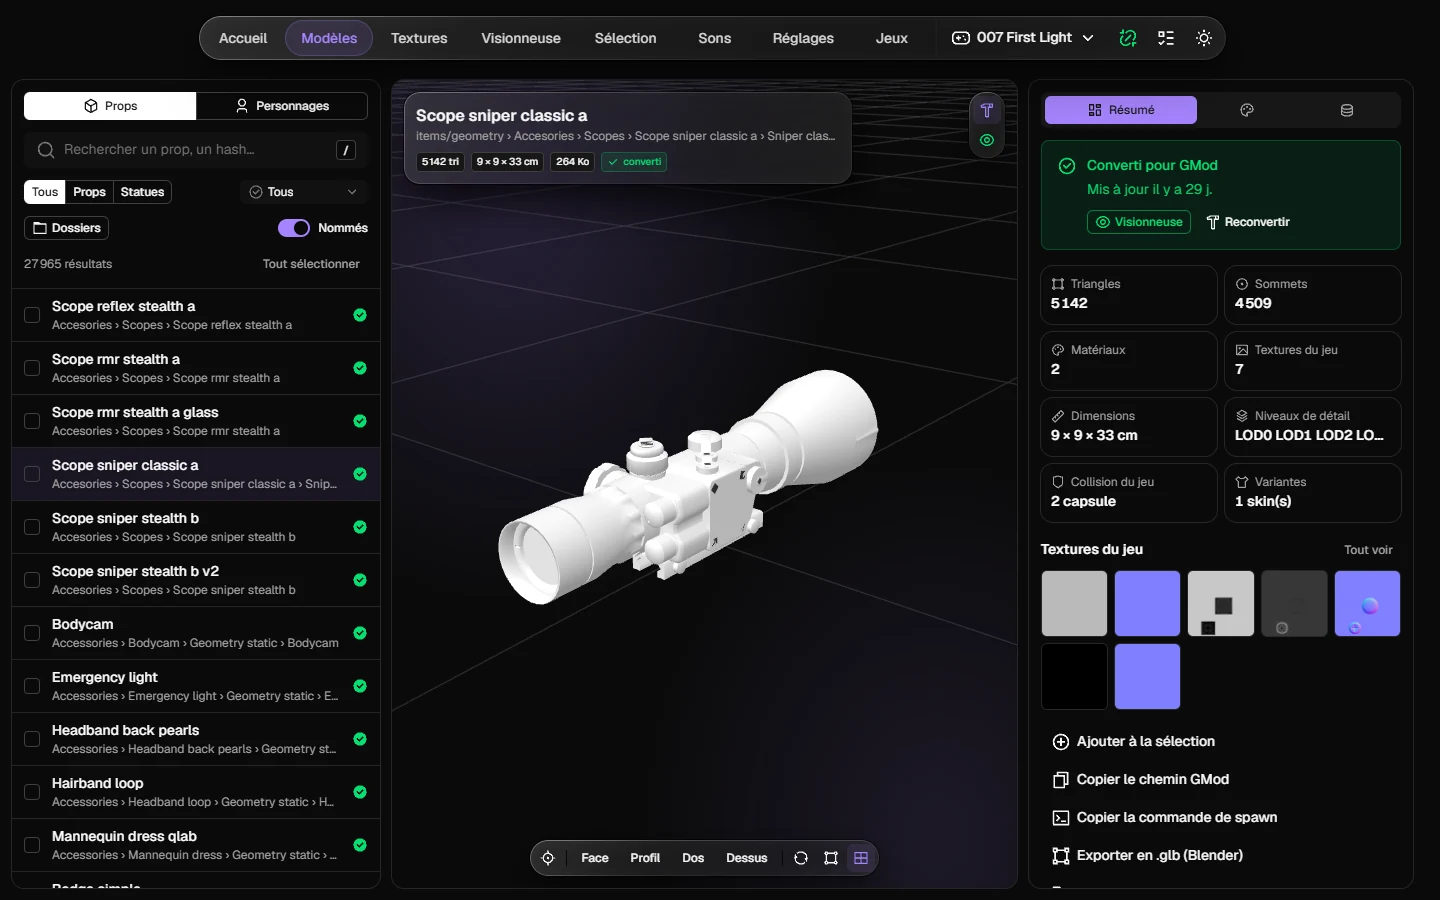
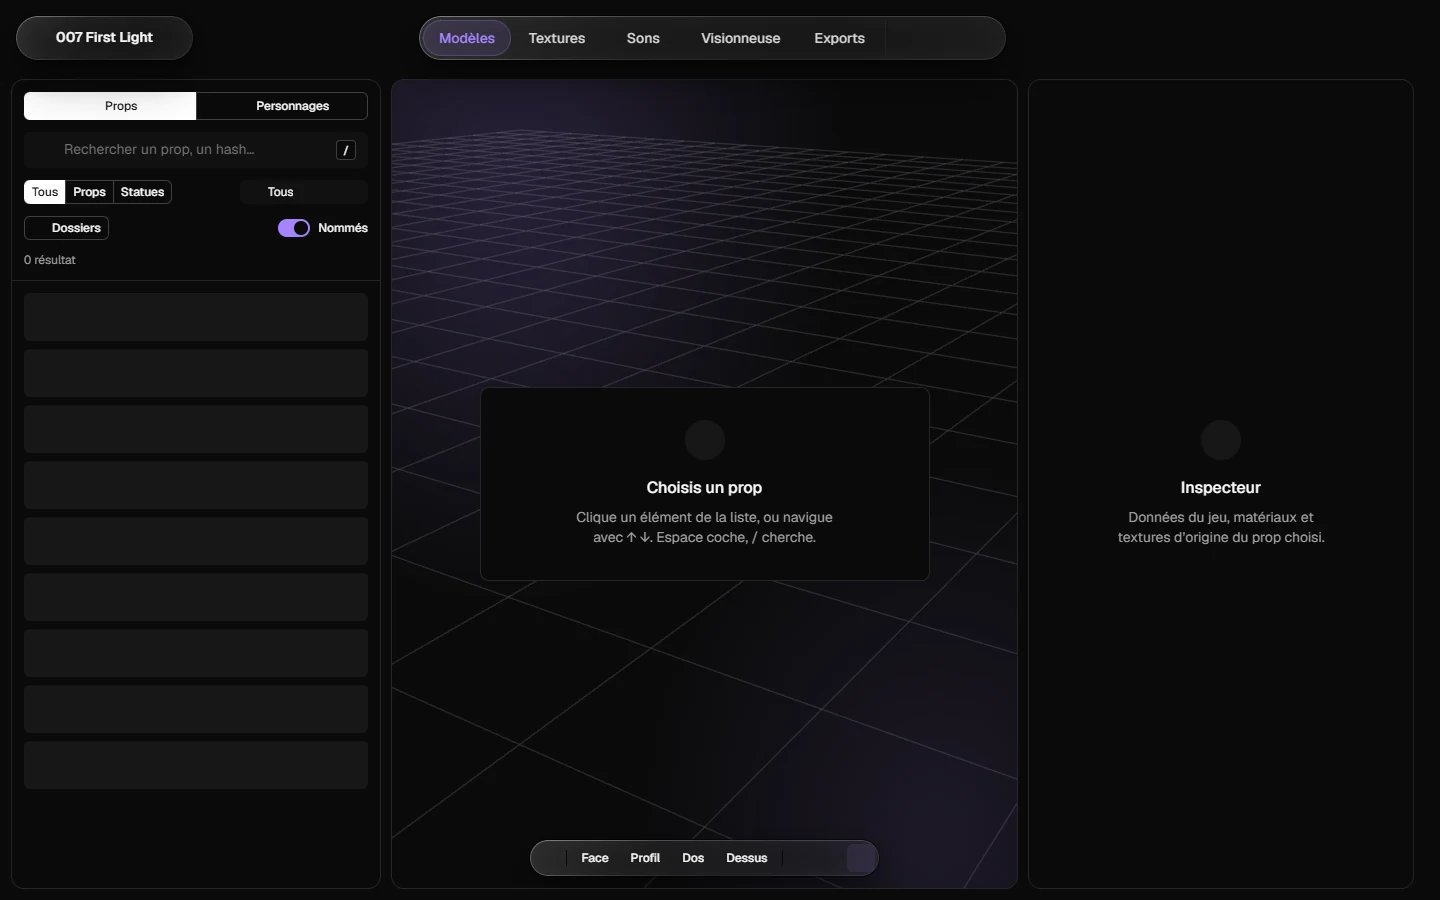
chore(release): v1.1.0 (#35)
Version 1.1.0 and README screenshots with the new navigation.

diff --git a/omni/__init__.py b/omni/__init__.py
@@ -1,3 +1,3 @@
 """omni: game assets to Garry's Mod."""
 
-__version__ = "1.0.6"
+__version__ = "1.1.0"

diff --git a/CHANGELOG.md b/CHANGELOG.md
@@ -4,6 +4,8 @@ All notable changes to this project are documented here. The format follows [Kee
 
 ## [Unreleased]
 
+## [1.1.0] - 2026-11-09
+
 ### Changed
 
 - The navigation is reorganised. The game is chosen from a menu on the left, which also opens its overview and the
